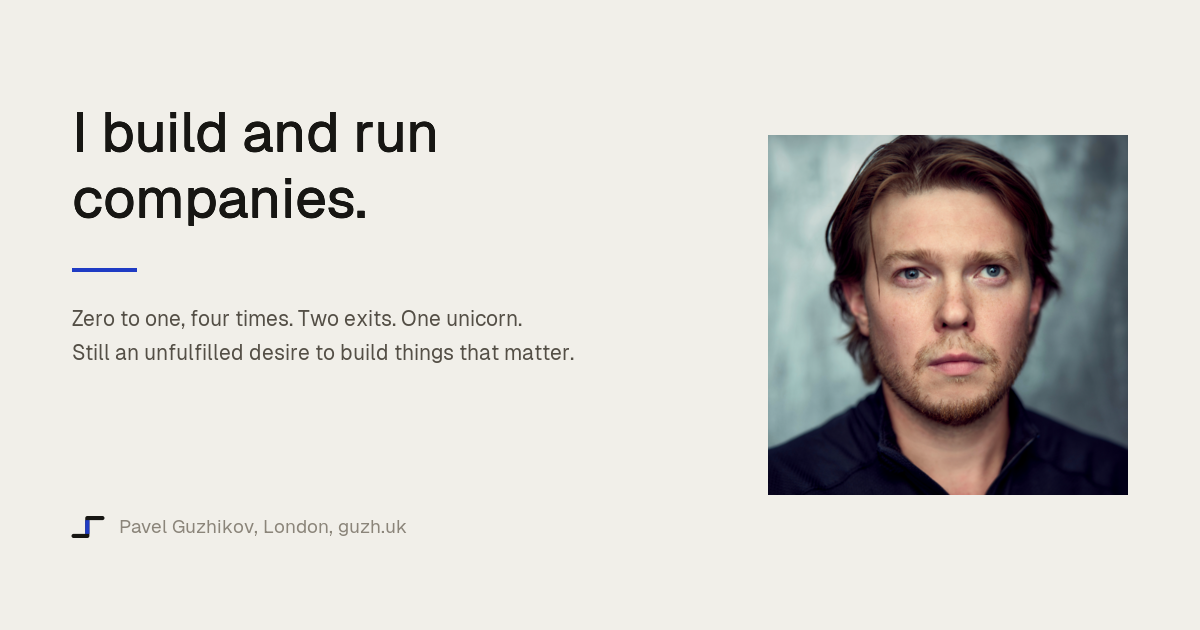
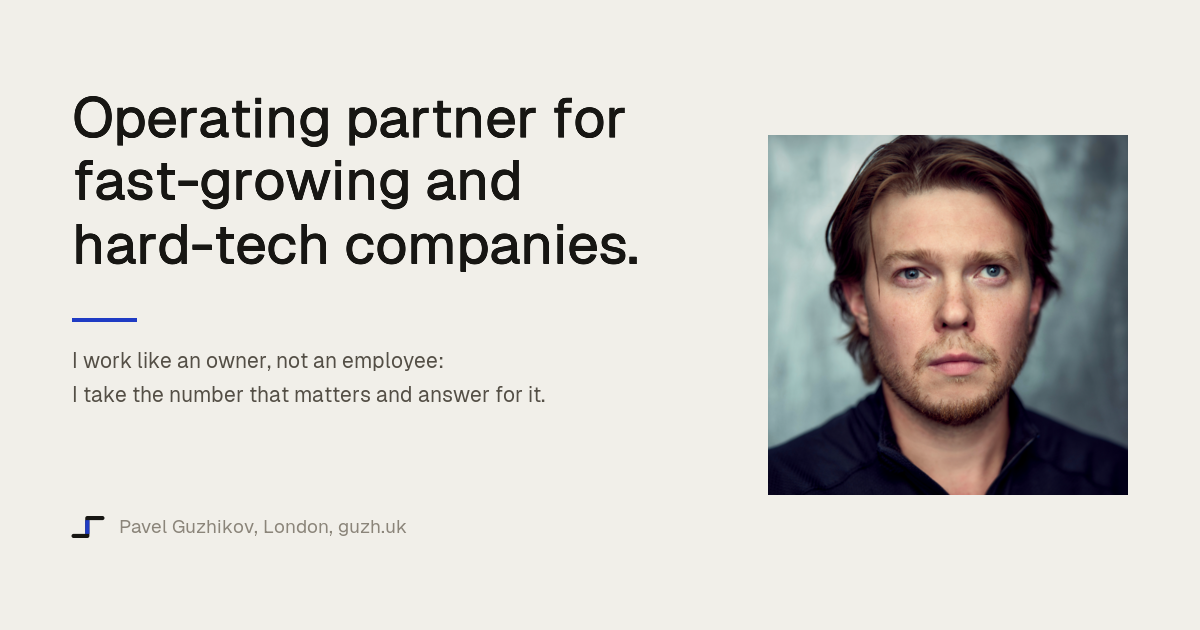
Home page: operating partner for fast-growing and hard-tech companies
New hero, proof by seat, how I work / who I am / hardest problems, side
projects shortened, booking link, share card, llms.txt and JSON-LD in step.

Changed region(s): [[0.0617, 0.1508, 0.5242, 0.4524], [0.0617, 0.4825, 0.4933, 0.6333]]

diff --git a/index.html b/index.html
@@ -4,28 +4,28 @@
 <meta charset="utf-8">
 <meta name="viewport" content="width=device-width, initial-scale=1">
 
-<title>Pavel Guzhikov: I build and run companies</title>
-<meta name="description" content="Pavel Guzhikov, builder and operator. Zero to one, four times. Two exits. One unicorn. Founding team at Uzum. London-based.">
+<title>Pavel Guzhikov: operating partner for fast-growing and hard-tech companies</title>
+<meta name="description" content="Pavel Guzhikov, operating partner for fast-growing and hard-tech companies. He works like an owner, not an employee: takes the number that matters and answers for it, as interim CEO, COO or CPO. Two exits, founding team at Uzum. London.">
 <link rel="canonical" href="https://guzh.uk/">
 
 <meta property="og:type" content="website">
 <meta property="og:url" content="https://guzh.uk/">
 <meta property="og:site_name" content="Pavel Guzhikov">
-<meta property="og:title" content="Pavel Guzhikov: I build and run companies">
-<meta property="og:description" content="Zero to one, four times. Two exits. One unicorn. Founding team at Uzum. London-based.">
+<meta property="og:title" content="Pavel Guzhikov: operating partner for fast-growing and hard-tech companies">
+<meta property="og:description" content="I work like an owner, not an employee: I take the number that matters and answer for it. Interim CEO, COO or CPO. London.">
 <meta property="og:image" content="https://guzh.uk/assets/og.png">
 <meta property="og:image:width" content="1200">
 <meta property="og:image:height" content="630">
-<meta property="og:image:alt" content="Pavel Guzhikov: I build and run companies.">
+<meta property="og:image:alt" content="Pavel Guzhikov: operating partner for fast-growing and hard-tech companies.">
 <meta name="twitter:card" content="summary_large_image">
-<meta name="twitter:title" content="Pavel Guzhikov: I build and run companies">
-<meta name="twitter:description" content="Zero to one, four times. Two exits. One unicorn. Founding team at Uzum. London-based.">
+<meta name="twitter:title" content="Pavel Guzhikov: operating partner for fast-growing and hard-tech companies">
+<meta name="twitter:description" content="I work like an owner, not an employee: I take the number that matters and answer for it. Interim CEO, COO or CPO. London.">
 <meta name="twitter:image" content="https://guzh.uk/assets/og.png">
 
 <!-- What search engines and AI answers read about this page and Pavel. Person.sameAs is the
      machine-readable twin of the "Elsewhere" links in the footer: it is how they tie those
      profiles to this page, so add or remove a profile in both places. The ItemList is the twin of
-     "Things you can open" below (all but Uzum, which is not his to describe): keep the two in step.
+     "Built on the side, by hand" below: keep the two in step.
      The page's dateModified sits in the block that tools/seo.py writes, further down the head. -->
 <script type="application/ld+json">
 {
@@ -48,7 +48,7 @@
       "@type": "ProfilePage",
       "@id": "https://guzh.uk/",
       "url": "https://guzh.uk/",
-      "name": "Pavel Guzhikov: I build and run companies",
+      "name": "Pavel Guzhikov: operating partner for fast-growing and hard-tech companies",
       "isPartOf": {
         "@id": "https://guzh.uk/#website"
       },
@@ -64,8 +64,8 @@
       "url": "https://guzh.uk/",
       "image": "https://guzh.uk/assets/pavel-web.png",
       "email": "mailto:pavel@guzh.uk",
-      "jobTitle": "Founder and operator",
-      "description": "Builder and operator. Zero to one, four times. Two exits. One unicorn. Founding team at Uzum.",
+      "jobTitle": "Operating partner",
+      "description": "Operating partner for fast-growing and hard-tech companies: works like an owner, takes the number that matters and answers for it, as interim CEO, COO or CPO. Two exits; founding team at Uzum, Uzbekistan's first unicorn.",
       "homeLocation": {
         "@type": "Place",
         "name": "London, United Kingdom"
@@ -109,7 +109,7 @@
     {
       "@type": "ItemList",
       "@id": "https://guzh.uk/#projects",
-      "name": "Things you can open: projects by Pavel Guzhikov",
+      "name": "Built on the side: projects by Pavel Guzhikov",
       "itemListElement": [
         {
           "@type": "ListItem",
@@ -506,6 +506,17 @@ img{max-width:100%}
   font-size:20px;line-height:1.5;letter-spacing:-.005em;
   color:var(--ink);text-wrap:pretty;
 }
+.kicker{
+  margin:0;font-size:11.5px;font-weight:500;letter-spacing:.16em;text-transform:uppercase;
+  color:var(--ink-3);
+}
+.hero-cta{margin:0;display:flex;flex-wrap:wrap;align-items:center;gap:12px 24px;font-size:16.5px}
+.cta-primary{
+  display:inline-flex;align-items:center;min-height:44px;padding:0 20px;border-radius:3px;
+  background:var(--accent);color:var(--paper,#fff);font-weight:500;letter-spacing:-.005em;
+  transition:opacity 160ms ease;
+}
+.cta-primary:hover{opacity:.88}
 .body-copy{margin:0;max-width:58ch;font-size:16.5px;line-height:1.72;color:var(--ink-2);text-wrap:pretty}
 
 .portrait{margin:0;position:relative}
@@ -597,7 +608,8 @@ img{max-width:100%}
 }
 .project > a:hover{color:var(--accent);border-bottom-color:var(--accent)}
 .project p{margin:0;font-size:14.5px;line-height:1.6;color:var(--ink-2);max-width:30ch;text-wrap:pretty}
-/* a link inside a description, like Agent Hands' "pitch" */
+.projects:not(.writing) .project-list{row-gap:18px}
+/* a link inside a description */
 .project p a{border-bottom:1px solid var(--underline);transition:color 160ms ease,border-color 160ms ease}
 .project p a:hover{color:var(--accent);border-bottom-color:var(--accent)}
 
@@ -683,11 +695,13 @@ img{max-width:100%}
   /* one column: headline, then the face, then the argument */
   .hero{display:flex;flex-direction:column;gap:0}
   .hero-text{display:contents}
+  .kicker{order:0;margin-bottom:14px}
   .hero h1{order:1;margin-bottom:30px}
   .portrait{order:2;max-width:190px;margin-bottom:34px}
   .lead{order:3;margin-bottom:28px}
   .body-copy{order:4;margin-bottom:22px}
   .body-copy:last-of-type{margin-bottom:0}
+  .hero-cta{order:5;margin-top:28px}
   .numbers{grid-template-columns:minmax(0,1fr) minmax(0,1fr);margin-top:88px}
   .stat{padding:0 20px}
   .stat:nth-child(odd){padding-left:0;border-left:0}
@@ -712,7 +726,7 @@ img{max-width:100%}
 }
 </style>
 <!-- BEGIN tools/seo.py: dateModified and breadcrumbs from sitemap.xml; run it, don't edit this -->
-<script type="application/ld+json">{"@context": "https://schema.org", "@type": "ProfilePage", "@id": "https://guzh.uk/", "url": "https://guzh.uk/", "dateModified": "2026-11-19"}</script>
+<script type="application/ld+json">{"@context": "https://schema.org", "@type": "ProfilePage", "@id": "https://guzh.uk/", "url": "https://guzh.uk/", "dateModified": "2026-11-24"}</script>
 <!-- END tools/seo.py -->
 </head>
 
@@ -752,15 +766,20 @@ img{max-width:100%}
   <main>
     <section class="hero">
       <div class="hero-text">
-        <h1>I build and run companies.</h1>
+        <p class="kicker">Your company is growing faster than the way it runs</p>
 
-        <p class="lead">Zero to one, four times. Two exits. One unicorn. Still an unfulfilled desire to build things that matter.</p>
+        <h1>Operating partner for fast&#8209;growing and hard&#8209;tech companies.</h1>
 
-        <p class="body-copy">Zero-to-one, then scale. Day-one startups to heritage brands. Margin, growth and retention are the only&nbsp;scoreboard I care about. Public value is now on the same line.</p>
+        <p class="lead">I work like an owner, not an employee. We agree on the one or two numbers that matter, I take them as mine, and I answer for them. I&rsquo;m happy to have skin in the game.</p>
 
-        <p class="body-copy">I can hold the product argument, the go-to-market argument and the technical one at the same time, which is what building in a market with no incumbents forces on you. I go to the warehouse and the call centre before I look at the dashboard, because the dashboard is downstream of things nobody wrote down.</p>
+        <p class="body-copy">Which seat that is depends on what&rsquo;s broken: operations, product or go&#8209;to&#8209;market. I come in as interim CEO, COO or CPO, two or three days a week or full&nbsp;time, and I fix processes, hire, or rebuild the back office with AI, whatever the number needs.</p>
 
-        <p class="body-copy">Twenty years of building, and still in the trenches: a mobile messenger in 2005, national payment infrastructure in 2022, and whatever is hard next.</p>
+        <p class="body-copy">I read the code and I read the P&amp;L. I go to the warehouse and the call centre before I look at the dashboard, because the dashboard is downstream of things nobody wrote down.</p>
+
+        <p class="hero-cta">
+          <a class="cta-primary" href="https://calendar.app.google/RG3g5WzxB3y9tXu39" target="_blank" rel="noopener noreferrer">Book 30 minutes</a>
+          <a class="link-accent" href="mailto:pavel@guzh.uk">pavel@guzh.uk</a>
+        </p>
       </div>
 
       <figure class="portrait">
@@ -784,85 +803,81 @@ img{max-width:100%}
       </figure>
     </section>
 
-    <section class="numbers" aria-label="Track record">
+    <section class="numbers" aria-label="Proof, seat by seat">
       <div class="stat">
-        <div class="stat-figure">20<span class="stat-unit"> yrs</span></div>
-        <div class="stat-label">building, most of it hands-on inside the thing being built</div>
+        <div class="stat-figure">150K&#8202;&rarr;&#8202;900K</div>
+        <div class="stat-label">Product. Monthly actives of a digital bank in twelve months, while retention improved</div>
       </div>
       <div class="stat">
-        <div class="stat-figure">4</div>
-        <div class="stat-label">companies founded from zero, two of them acquired</div>
+        <div class="stat-figure">35%</div>
+        <div class="stat-label">Pricing. Month-on-month revenue growth, held for two years by one pricing and product engine</div>
       </div>
       <div class="stat">
-        <div class="stat-figure">1</div>
-        <div class="stat-label">unicorn, built where the infrastructure did not exist yet</div>
+        <div class="stat-figure">6<span class="stat-unit"> months</span></div>
+        <div class="stat-label">Go-to-market. A new jobs marketplace taken to half the scale of the incumbent</div>
       </div>
       <div class="stat">
-        <div class="stat-figure">500+</div>
-        <div class="stat-label">people hired personally over the last ten years</div>
+        <div class="stat-figure">2</div>
+        <div class="stat-label">Exits. Companies I founded from zero and sold, so I know the chair you sit in</div>
       </div>
     </section>
 
     <section class="blocks">
       <article class="block">
-        <div class="block-index">01 Uzum</div>
-        <h2>The unicorn</h2>
-        <p>Founding team at Uzbekistan’s first unicorn: fintech, lending, marketplace, payments, cards, and the data culture underneath them. Millions of users in two years, built from nothing in a market with no digital infrastructure and a regulator in every room.</p>
+        <div class="block-index">01 How I work</div>
+        <h2>One number, owned</h2>
+        <p>We start with the one or two numbers that would change the business: margin, cash, retention, time to launch. I take them as mine, report on them every week, and do whatever moves them, hands-on. When the job is done, it runs without me.</p>
       </article>
       <article class="block">
-        <div class="block-index">02 Before that</div>
-        <h2>Four from zero</h2>
-        <p>Founded and sold Worki, Russia’s fastest-growing jobs marketplace (acquired by Mail.Ru Group, 2019). Co-founded Dengi Vpered, earned-wage access backed by Target Global (sold). Fintech products with 100+ banks. A multi-channel mobile messenger in 2005, three years before the category had a name.</p>
+        <div class="block-index">02 Who I am</div>
+        <h2>Been in that chair</h2>
+        <p>Founding team at Uzum, Uzbekistan&rsquo;s first unicorn, where I built Uzum Bank from zero. Before that I founded and sold Worki (to Mail.Ru Group, 2019), co-founded Dengi Vpered, earned-wage access backed by Target Global (sold), and built fintech products with 100+ banks. Twenty years, most of it hands-on.</p>
       </article>
       <article class="block">
-        <div class="block-index">03 Now</div>
-        <h2>Hard and consequential</h2>
-        <p>London-based. Most interested in problems where the technology is genuinely hard, the deployment is political and the blast radius is national: sovereign infrastructure, public systems, defence and dual-use, AI in the public interest.</p>
+        <div class="block-index">03 Where I lean</div>
+        <h2>The hardest problems</h2>
+        <p>Most drawn to problems where the technology is genuinely hard, the deployment is political and the blast radius is national: sovereign infrastructure, defence and dual-use, public systems, applied AI.</p>
       </article>
     </section>
 
     <section class="projects" aria-labelledby="projects-label">
-      <h2 class="projects-label" id="projects-label">Things you can open</h2>
+      <h2 class="projects-label" id="projects-label">Built on the side, by hand</h2>
       <ul class="project-list">
         <li class="project">
-          <a href="https://uzum.com" target="_blank" rel="noopener noreferrer">Uzum</a>
-          <p>Marketplace, fintech and payments, built from zero in a market that had none.</p>
-        </li>
-        <li class="project">
           <a href="https://agenthands.cc/" target="_blank" rel="noopener noreferrer">Agent Hands</a>
-          <p>Any AI can hire a person nearby for a real-world task, paid in USDC once the proof is accepted. Read the <a href="https://agenthands.cc/pitch/" target="_blank" rel="noopener noreferrer">pitch</a>.</p>
+          <p>Any AI can hire a person nearby for a real-world task.</p>
         </li>
         <li class="project">
           <a href="https://ruminator.xyz/" target="_blank" rel="noopener noreferrer">Ruminator.xyz</a>
-          <p>Understand Russia through its local press: dozens of regional outlets read every day, every claim checked word for word. Invite-only.</p>
+          <p>Russia through its regional press, every claim checked.</p>
         </li>
         <li class="project">
           <a href="https://ledgergov.uk/" target="_blank" rel="noopener noreferrer">LedgerGov.UK</a>
-          <p>An open P&amp;L of the UK state: where public money comes from, where it goes, and what every promise would cost.</p>
+          <p>An open P&amp;L of the UK state and its promises.</p>
         </li>
         <li class="project">
           <a href="https://boroughbook.uk/" target="_blank" rel="noopener noreferrer">BoroughBook.UK</a>
-          <p>Where your council tax goes in Hammersmith &amp; Fulham: the budget, every pledge, every payment over £500.</p>
+          <p>Where council tax goes in Hammersmith &amp; Fulham.</p>
         </li>
         <li class="project">
           <a href="https://offyougo.uk/" target="_blank" rel="noopener noreferrer">offyougo</a>
-          <p>Where to go in the UK: every national park and scenic area, 65,000 places ranked for who is coming, when, and what you are into. Free, no sign-up, no ads.</p>
+          <p>UK national parks, ranked for who is coming and when.</p>
         </li>
         <li class="project">
           <a href="https://t.me/tcalendar_bot/app" target="_blank" rel="noopener noreferrer">tCalendar</a>
-          <p>A calendar that lives inside Telegram: two-way Google sync, and plain messages become events.</p>
+          <p>A calendar that lives inside Telegram.</p>
         </li>
         <li class="project">
           <a href="https://alwaysweather.uk/" target="_blank" rel="noopener noreferrer">Always Weather</a>
-          <p>A calm weather app for iPhone, Mac, Android and Windows. Drag your thumb through the hours. No ads, no account.</p>
+          <p>A calm weather app you drag through the hours.</p>
         </li>
         <li class="project">
           <a href="https://alwaystoday.uk/">Always Today</a>
-          <p>A calm to-do list for Mac and the Linux terminal, out now. The Android and Googlebook app is in review at Google Play and out in a few days; iPhone, iPad and Windows are coming soon. Works offline, syncs when you want it.</p>
+          <p>A calm, local-first to-do list on every platform.</p>
         </li>
         <li class="project">
           <a href="/goat-rodeo/">Goat Rodeo</a>
-          <p>A party game for one phone and up to four friends: build the trap course together, then race through it. On the App Store and Google Play; five levels free, no ads.</p>
+          <p>A party game for one phone and four friends.</p>
         </li>
       </ul>
     </section>
@@ -897,7 +912,7 @@ img{max-width:100%}
 
   <footer class="contact">
     <div class="contact-left">
-      <div class="contact-line">Open to the right thing. Write to me.</div>
+      <div class="contact-line">Thirty minutes is usually enough to know. <a class="link-accent" href="https://calendar.app.google/RG3g5WzxB3y9tXu39" target="_blank" rel="noopener noreferrer">Book a call</a> or write to me.</div>
       <a class="contact-email" href="mailto:pavel@guzh.uk">pavel@guzh.uk</a>
     </div>
     <div class="contact-right">
